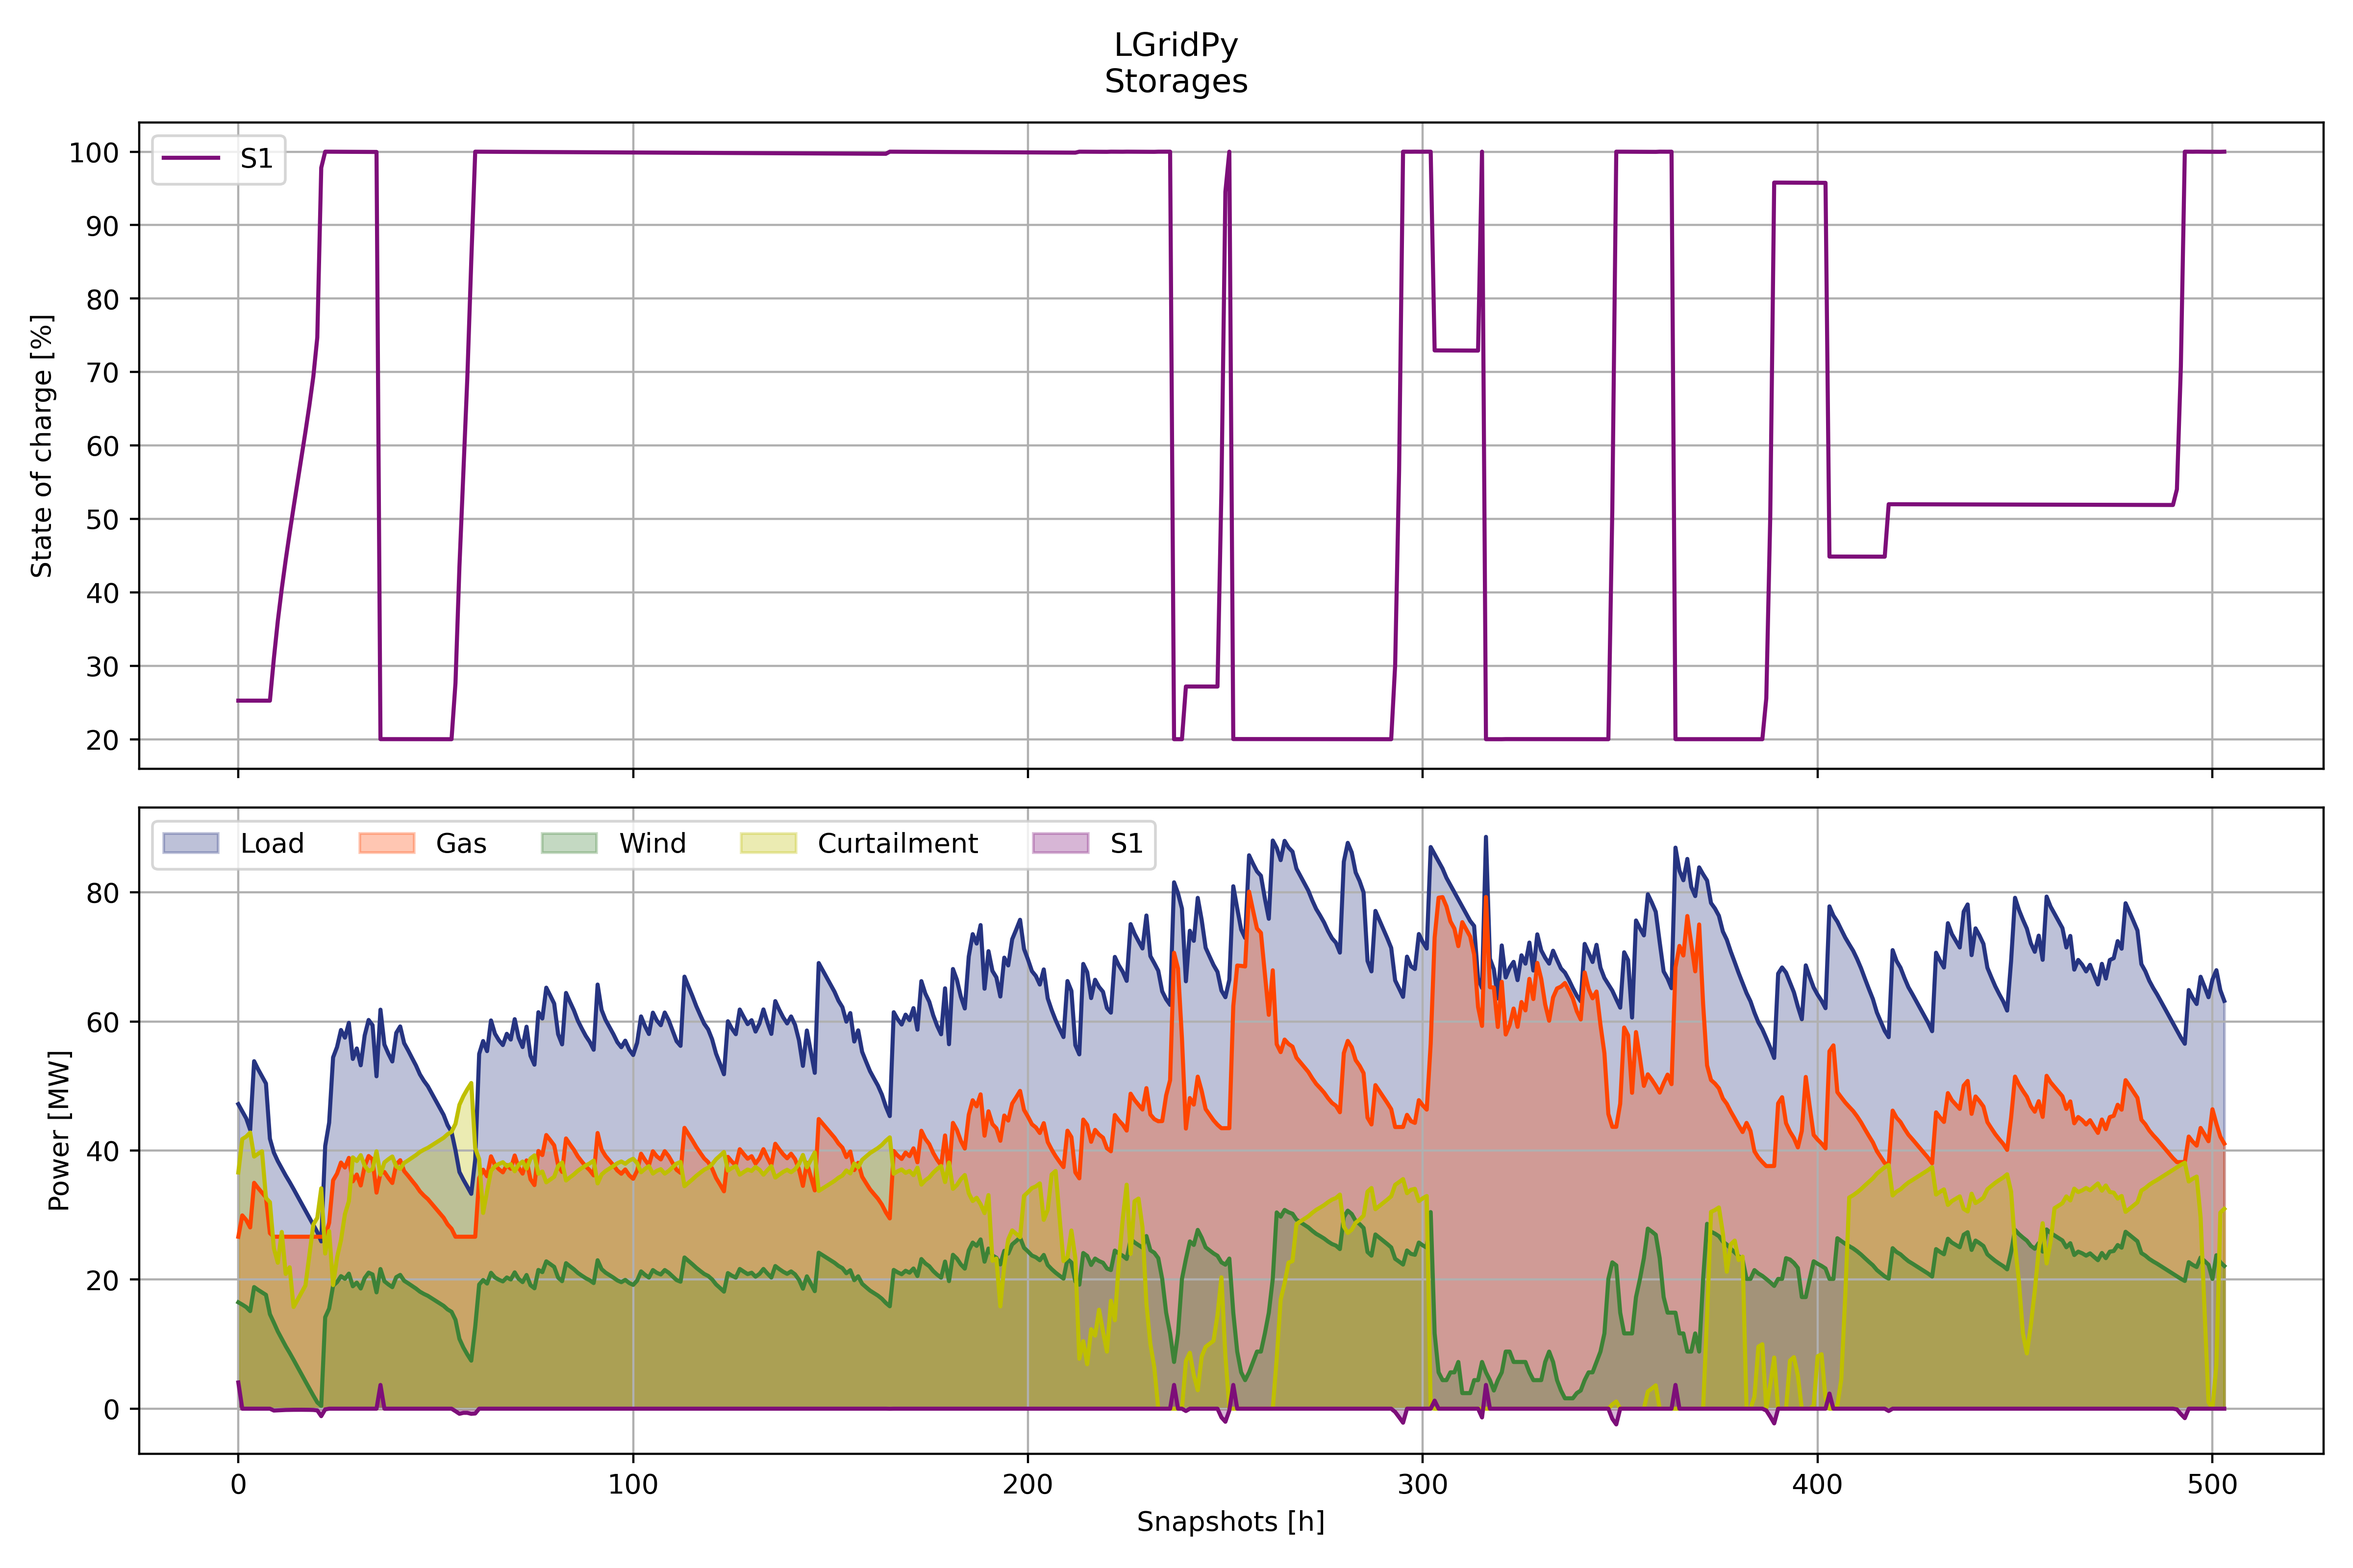
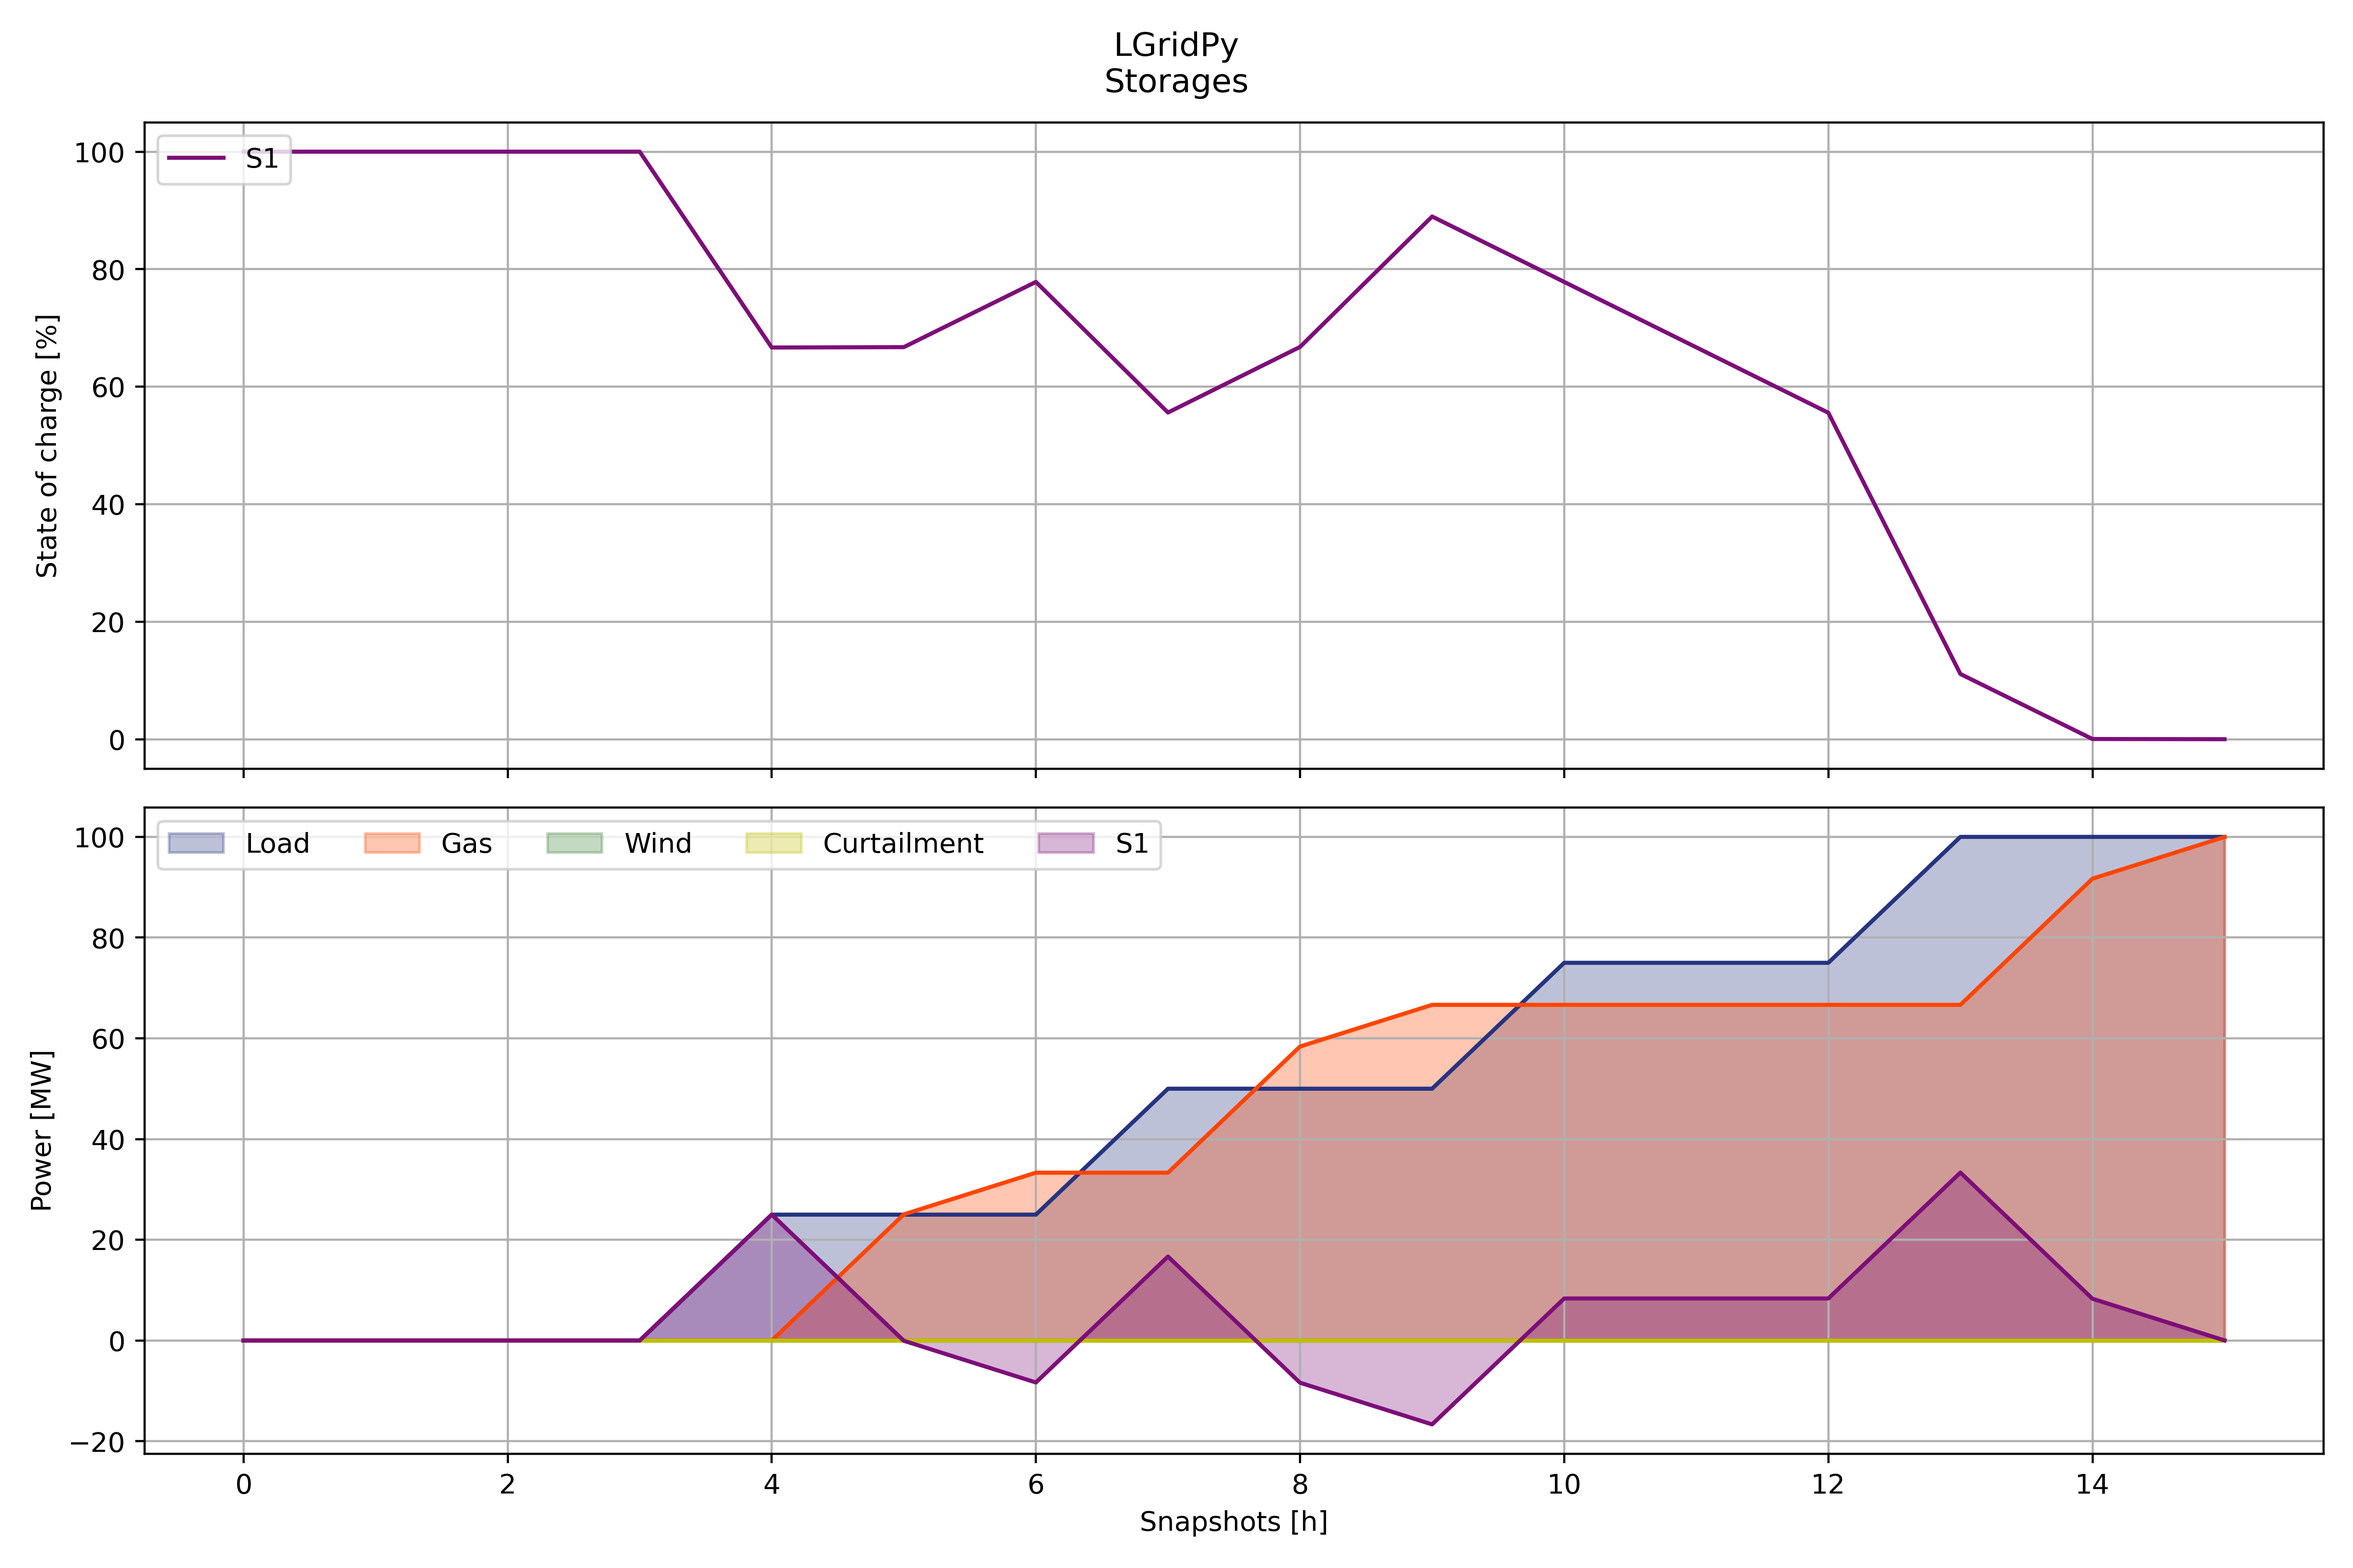
include step load and fix non cyclic storages

diff --git a/LGridPy.py b/LGridPy.py
@@ -1,5 +1,8 @@
 from network import *
+import warnings
 
+warnings.simplefilter(action='ignore', category=FutureWarning)
+    
 # Reading data from sheets
 dem_load=pd.read_excel(r'input_data/Elisabetta load P.U.xlsx')
 load_data=dem_load['Y'][140:644] # three weeks of data
@@ -10,72 +13,74 @@ lm2500_efcurve = pd.read_excel('input_data/ef_curve_lm2500.xlsx')
 
 network = Network(name='My Network')
 
-load = list(90*load_data)
+# load = list(90*load_data)
 # load = load_data
+
+load = network.step_load(nominal_load=25, number_of_steps=4)
 
 network.add_load(load)
 
 network.add_gas_generator('GT1',
-                        p_nom=33.3,
-                        p_min_pu=0.2,
-                        p_max_pu=0.7,
-                        min_uptime=1/6, # 10 min
-                        min_downtime=0.5, # 30 min
-                        ramp_up_limit=0.15,
-                        ramp_down_limit=0.15,
-                        start_up_cost=0.,
-                        shut_down_cost=0.,
+                        p_nom=33.4,
+                        p_min_pu=0.,
+                        p_max_pu=1.,
+                        min_uptime=0., # 10 min
+                        min_downtime=0., # 30 min
+                        ramp_up_limit=0.75,
+                        ramp_down_limit=0.75,
+                        start_up_cost=70.,
+                        shut_down_cost=70.,
                         fuel_price=1.,
                         efficiency_curve=lm2500_efcurve
                         )
 
 network.add_gas_generator('GT2',
-                        p_nom=33.3,
-                        p_min_pu=0.2,
-                        p_max_pu=0.7,
-                        min_uptime=1/6, # 10 min
-                        min_downtime=0.5, # 30 min
-                        ramp_up_limit=0.15,
-                        ramp_down_limit=0.15,
-                        start_up_cost=0.,
-                        shut_down_cost=0.,
+                        p_nom=33.4,
+                        p_min_pu=0.,
+                        p_max_pu=1.,
+                        min_uptime=0., # 10 min
+                        min_downtime=0., # 30 min
+                        ramp_up_limit=0.75,
+                        ramp_down_limit=0.75,
+                        start_up_cost=70.,
+                        shut_down_cost=70.,
                         fuel_price=1.,
                         efficiency_curve=lm2500_efcurve
                         )
 
 network.add_gas_generator('GT3',
-                        p_nom=33.3,
-                        p_min_pu=0.2,
-                        p_max_pu=0.7,
-                        min_uptime=1/6, # 10 min
-                        min_downtime=0.5, # 30 min
-                        ramp_up_limit=0.15,
-                        ramp_down_limit=0.15,
-                        start_up_cost=0.,
-                        shut_down_cost=0.,
+                        p_nom=33.4,
+                        p_min_pu=0.,
+                        p_max_pu=1.,
+                        min_uptime=0., # 10 min
+                        min_downtime=0., # 30 min
+                        ramp_up_limit=0.75,
+                        ramp_down_limit=0.75,
+                        start_up_cost=70.,
+                        shut_down_cost=70.,
                         fuel_price=1.,
                         efficiency_curve=lm2500_efcurve
                         )
 
-network.add_gas_generator('GT4',
-                        p_nom=33.3,
-                        p_min_pu=0.2,
-                        p_max_pu=0.7,
-                        min_uptime=1/6, # 10 min
-                        min_downtime=0.5, # 30 min
-                        ramp_up_limit=0.15,
-                        ramp_down_limit=0.15,
-                        start_up_cost=0.,
-                        shut_down_cost=0.,
-                        fuel_price=1.,
-                        efficiency_curve=lm2500_efcurve
-                        )
+# network.add_gas_generator('GT4',
+#                         p_nom=33.3,
+#                         p_min_pu=0.2,
+#                         p_max_pu=0.7,
+#                         min_uptime=1/6, # 10 min
+#                         min_downtime=0.5, # 30 min
+#                         ramp_up_limit=0.15,
+#                         ramp_down_limit=0.15,
+#                         start_up_cost=0.,
+#                         shut_down_cost=0.,
+#                         fuel_price=1.,
+#                         efficiency_curve=lm2500_efcurve
+#                         )
 
-wind_speed_data = pd.read_csv('input_data/150m one year wind speed.txt', delimiter = "\n", header=None)
+wind_speed_data = pd.read_csv('input_data/150m one year wind speed.txt', header=None)
 
 # Average Wind Speed
-mean_wind_speed = np.mean(wind_speed_data)
-wind_speed = np.ones(len(load))
+# mean_wind_speed = np.mean(wind_speed_data)
+# wind_speed = np.ones(len(load))
 # wind_speed *= mean_wind_speed[0]
 # wind_speed *= 15
 
@@ -84,24 +89,29 @@ wind_speed = np.array(wind_speed_data[:len(load)]).T[0]
 
 wind_penetration = .35
 
-network.add_wind_generator('WT1',
-                            p_nom=15,
-                            number_of_turbines=4,
-                            wind_speed_array=wind_speed,
-                            wind_penetration=wind_penetration,
-                            electromechanical_conversion_efficiency=0.965
-                            # electromechanical_conversion_efficiency=1.
-                            )
-    
-network.add_storage('S1',
-                    p_nom=5,
-                    nom_capacity_MWh=5,
-                    min_capacity=0.2,
-                    stand_efficiency=1 - 0.02/30/24,
-                    discharge_efficiency=0.92,
-                    initial_state_of_charge=1,
-                    cyclic_state_of_charge=True
-                    )
+# network.add_wind_generator('WT1',
+#                             p_nom=15,
+#                             number_of_turbines=4,
+#                             wind_speed_array=wind_speed,
+#                             wind_penetration=wind_penetration,
+#                             electromechanical_conversion_efficiency=0.965
+#                             # electromechanical_conversion_efficiency=1.
+#                             )
+
+round_trip_efficiencies = [1., 0.9, 0.8, 0.7, 0.6, 0.5, 0.4, 0.3, 0.2, 0.1]
+capacities = [1., 0.9, 0.8, 0.7, 0.6, 0.5, 0.4, 0.3, 0.2, 0.1]
+
+# network.add_storage('S1',
+#                     p_nom=100,
+#                     nom_capacity_MWh=capacities[9]*3*25*(1+2+3+4),
+#                     min_capacity=0.,
+#                     # stand_efficiency=1 - 0.02/30/24,
+#                     stand_efficiency=1.,
+#                     # discharge_efficiency=0.92,
+#                     discharge_efficiency=1.,
+#                     initial_state_of_charge=1.,
+#                     cyclic_state_of_charge=False
+#                     )
 
 # network.add_storage('S2',
 #                     p_nom=5,
@@ -113,12 +123,7 @@ network.add_storage('S1',
 #                     cyclic_state_of_charge=True
 #                     )
 
-# print(network.wind_generators[0].p_max_pu*30)
-
 network.solve(show_complete_info=False)
-
-# network.model.fuel_cost.pprint()
-# network.model.fuel_cost_constraint.pprint()
 
 # For high quality images, use plot_dpi = 2000
 # For quick simulation times, use plot_dpi = 400
@@ -129,7 +134,7 @@ network.plot_results(display_plot=True,
                     st_colors=list(['#7d0e79', 'r'])
                     )
 
-network.export_results_to_xlsx('results.xlsx', 
+network.export_results_to_xlsx('Test2.xlsx', 
                             include_status=True, 
                             include_means=True, 
                             compact_format=True

diff --git a/network.py b/network.py
@@ -24,8 +24,18 @@ class Network:
     def add_load(self, load):
         self.load = load
         self.snapshots = np.asarray(range(len(load)))
-        
         return
+    
+    def step_load(self, nominal_load=100, number_of_steps=1):
+        # Return step load
+        step = np.array([0., 1., 1.])
+        step_load = np.concatenate(([0, 0, 0], step))
+    
+        for i in range(1, number_of_steps):
+            step_load = np.concatenate((step_load, step+i))
+            
+        step_load = nominal_load * np.concatenate((step_load, [step[-1]+number_of_steps-1]))
+        return list(step_load)
 
     def add_gas_generator(self, name, p_nom, p_min_pu, p_max_pu, min_uptime, min_downtime, ramp_up_limit, ramp_down_limit, start_up_cost, shut_down_cost, efficiency_curve, fuel_price, co2_per_mw=0.517, SFC=0.215, **kwargs):
         # Create GasGenerator object with input parameters
@@ -446,9 +456,12 @@ class Network:
             if is_cyclic:
                 return model.storage_soc[i,j] == initial_soc
             
-            # Else, a final state of charge must be defined
-            else:
+            # Else, if a final state of charge is set
+            elif final_soc is not None:
                 return model.storage_soc[i,j] == final_soc
+            
+            # Else, skip this constraint
+                return Constraint.Skip
             
         # Get model first dimension
         first_dimension = self.get_storages_attr('name')
@@ -895,7 +908,7 @@ class Network:
             
             # Include Means line at the end of DataFrame
             if include_means:
-                data.loc['Mean'] = data.mean()
+                data.loc['Mean'] = data.mean(axis=0)
             
             # Save Excel sheet
             writer = pd.ExcelWriter('results/'+filename, engine="xlsxwriter")
@@ -953,7 +966,7 @@ class Network:
             
             # Include Means line at the end of DataFrame
             if include_means:
-                data.loc['Mean'] = data.mean()
+                data.loc['Mean'] = data.mean(axis=0)
                 
             # Save Excel sheet
             writer = pd.ExcelWriter('results/'+filename, engine="openpyxl", mode='a')

diff --git a/generators.py b/generators.py
@@ -78,7 +78,6 @@ class WindGenerator(Generator):
         # Efficiency is set to 100%
         self.ef_a = 0
         self.ef_b = 1.
-        self.ef_c = 0
     
     def set_p_max_pu(self, load):       
         # Update p_max_pu according to available wind, given wind penetration and power curve
